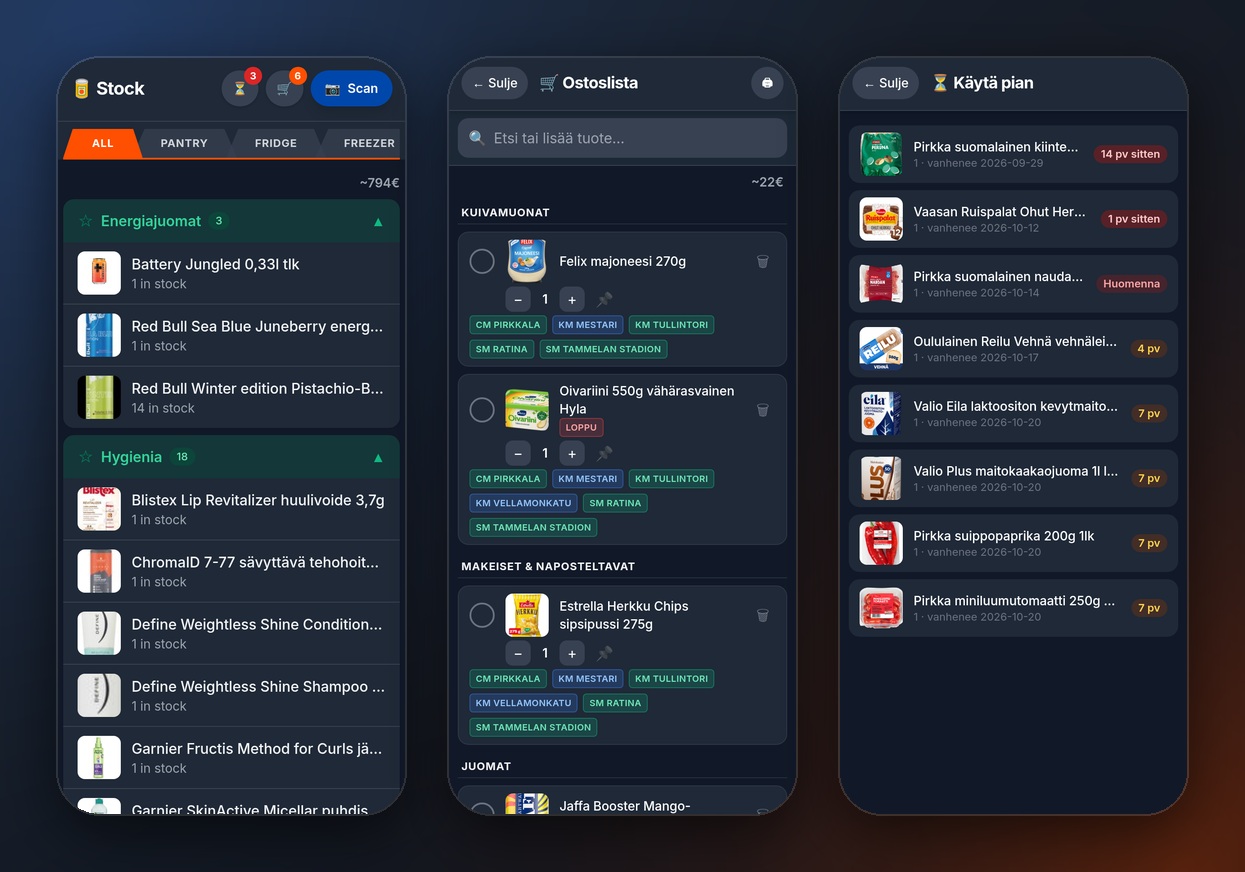
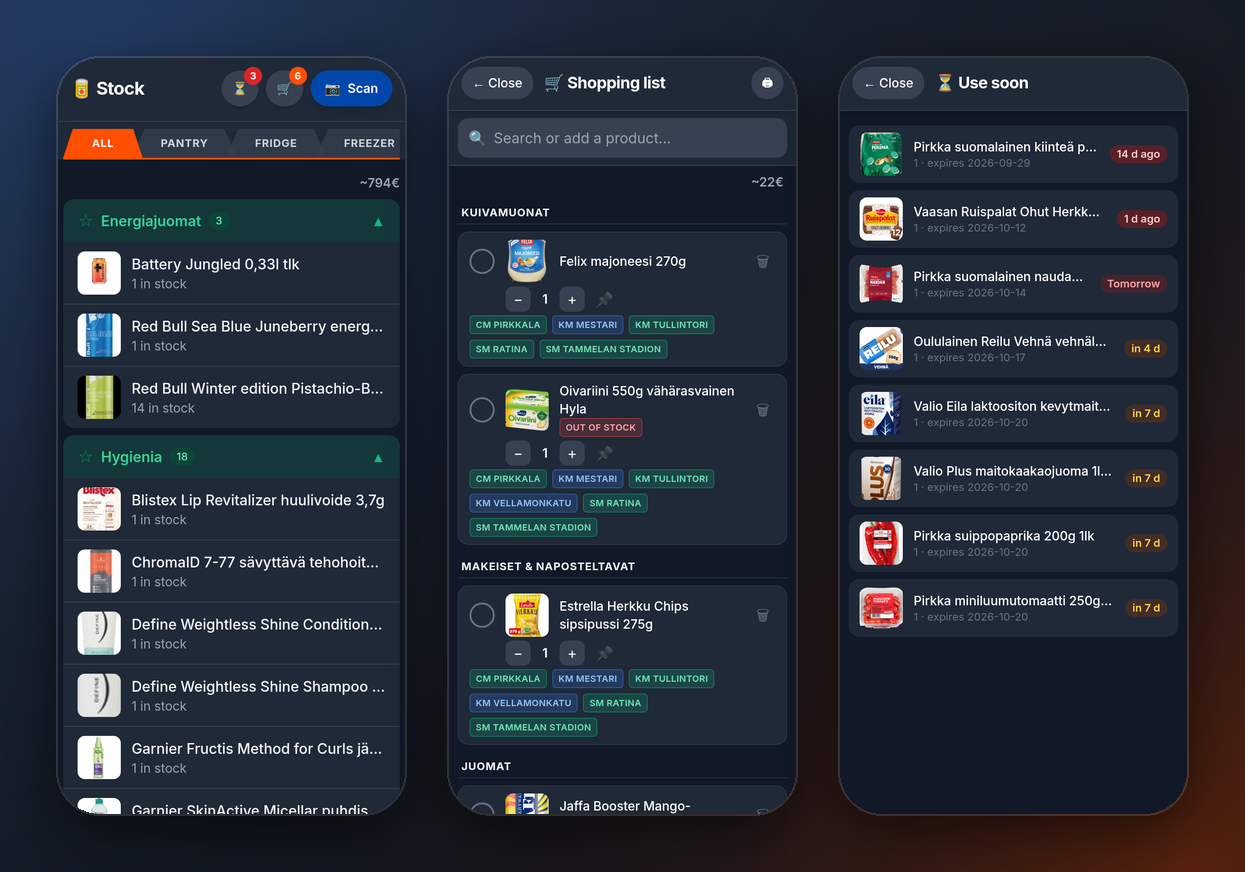
README: screenshots and labels of the English interface

diff --git a/README.md b/README.md
@@ -21,9 +21,9 @@
 - **Stock at a glance** — products grouped by product group with photos, location tabs, favourite groups pinned to the top, and an estimated value of what's on the shelf.
 - **One-gesture changes** — swipe a row right to add one, left to consume one, or long-press and drag down to mark it opened. Changes show a 5-second undo toast.
 - **Barcode scanning** — use the phone camera or a Bluetooth scanner to scan shopping, count inventory, consume, or add to the shopping list. Unknown barcodes are looked up through the Scraper. A photo of a receipt can also be parsed by AI and added to stock in one go.
-- **Shopping list in aisle order** — "Ostoslista" groups rows by Finnish grocery aisle, shows which stores carry each item, the product to buy under a generic row, and an estimated total. Low-stock items are added automatically.
-- **Suggestions** — "Ehdotus" proposes what will run out within a week, "Toistuvat ostokset" what is due by purchase rhythm, "Suositukset" what was recently used up, and "Setit" pushes bundles made in Recipes onto the list.
-- **Use soon** — "Käytä pian" lists lots sorted by best-before date, with a header badge for expired or nearly expired items.
+- **Shopping list in aisle order** — The shopping list groups rows by Finnish grocery aisle, shows which stores carry each item, the product to buy under a generic row, and an estimated total. Low-stock items are added automatically.
+- **Suggestions** — "Suggestion" proposes what will run out within a week, "Recurring purchases" what is due by purchase rhythm, "Recommendations" what was recently used up, and "Sets" pushes bundles made in Recipes onto the list.
+- **Use soon** — lists lots sorted by best-before date, with a header badge for expired or nearly expired items.
 - **Print the list** — 🖨 Tulosta sends the list to the Print add-on, filtered to the store you pick.
 
 ## 🚀 Installation
